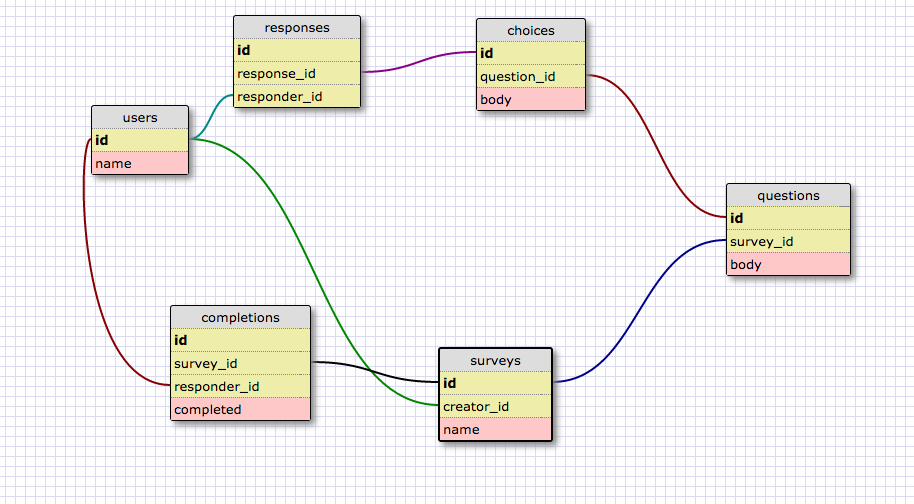
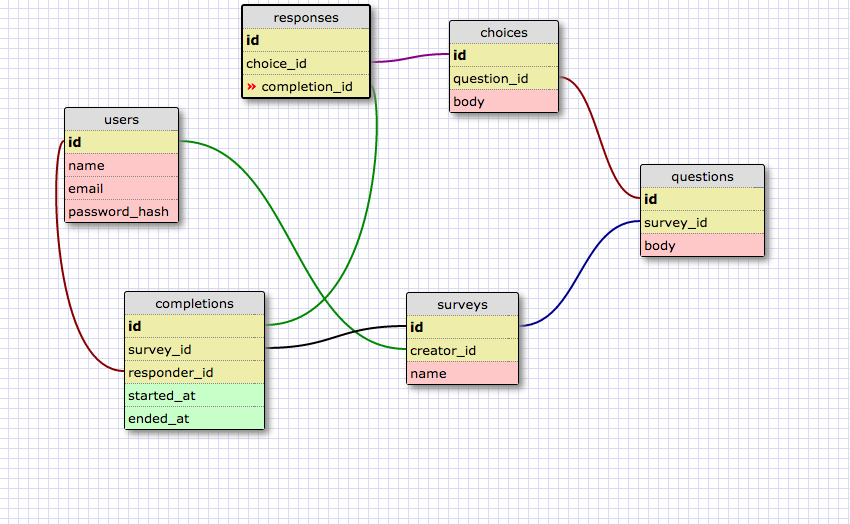
further along

diff --git a/public/js/application.js b/public/js/application.js
@@ -1,10 +1,23 @@
 $(document).ready(function () {
 
+  $("#add_question").click(function() {
+    $("#questionForm").append($("#questionTmpl").clone());
+  });
+
   // send an HTTP DELETE request for the sign-out link
   $('a#sign-out').on("click", function (e) {
     e.preventDefault();
     var request = $.ajax({ url: $(this).attr('href'), type: 'delete' });
     request.done(function () { window.location = "/"; });
   });
+
+  $('#add_question').click(function(event) {
+    event.preventDefault();
+    var request = $.ajax({ url: '/questions', type: 'get'});
+    request.done(function(response) {
+      console.log(response)
+      $("#submit_form").before(response);
+    });
+  })
 
 });

diff --git a/db/seeds.rb b/db/seeds.rb
@@ -6,16 +6,4 @@ User.create :name => 'Dev Bootcamp Student', :email => 'me@example.com', :passwo
   User.create :name => Faker::Name.name, :email => Faker::Internet.email, :password => 'password'
 end
 
-# create a few technical skills
-computer_skills = %w(Ruby Sinatra Rails JavaScript jQuery HTML CSS)
-computer_skills.each do |skill|
-  Skill.create :name => skill, :context => 'technical'
-end
-
-# create a few creative skills
-design_skills = %w(Photoshop Illustrator Responsive-Design)
-design_skills.each do |skill|
-  Skill.create :name => skill, :context => 'creative'
-end
-
 # TODO: create associations between users and skills

diff --git a/app/controllers/index.rb b/app/controllers/index.rb
@@ -1,8 +1,28 @@
 get '/' do
   # render home page
-  @users = User.all
+  @surveys = Survey.all
 
   erb :index
+end
+
+#----------- SURVEYS ------------
+
+# get '/surveys' do
+
+
+# end
+
+get '/surveys/new' do
+  erb :'surveys/new'
+end
+
+post '/surveys' do
+  @output = params[:question]
+end
+
+get '/questions' do
+  erb :'/surveys/_question', layout: false if request.xhr?
+
 end
 
 #----------- SESSIONS -----------

diff --git a/app/models/user.rb b/app/models/user.rb
@@ -1,5 +1,8 @@
 class User < ActiveRecord::Base
   attr_reader :entered_password
+  has_many  :surveys, foreign_key: "creator_id"
+  has_many  :completions, foreign_key: "responder_id"
+  has_many  :responses, through: :completions
 
   validates :name, :length => { :minimum => 3, :message => "must be at least 3 characters, fool!" }
   validates :entered_password, :length => { :minimum => 6 }

diff --git a/db/migrate/20141128110354_create_completions.rb b/db/migrate/20141128110354_create_completions.rb
@@ -1,0 +1,12 @@
+class CreateCompletions < ActiveRecord::Migration
+  def change
+    create_table :completions do |t|
+      t.integer :survey_id
+      t.integer :responder_id
+      t.datetime :started_at
+      t.datetime :ended_at
+
+      t.timestamps
+    end
+  end
+end

diff --git a/db/migrate/20141128110403_create_responses.rb b/db/migrate/20141128110403_create_responses.rb
@@ -1,0 +1,10 @@
+class CreateResponses < ActiveRecord::Migration
+  def change
+    create_table :responses do |t|
+      t.integer   :choice_id
+      t.integer   :completion_id
+
+      t.timestamps
+    end
+  end
+end

diff --git a/db/migrate/20141128110407_create_surveys.rb b/db/migrate/20141128110407_create_surveys.rb
@@ -1,0 +1,10 @@
+class CreateSurveys < ActiveRecord::Migration
+  def change
+    create_table  :surveys do |t|
+      t.integer   :creator_id
+      t.string    :name
+
+      t.timestamps
+    end
+  end
+end

diff --git a/db/migrate/20141128110358_create_questions.rb b/db/migrate/20141128110358_create_questions.rb
@@ -1,0 +1,10 @@
+class CreateQuestions < ActiveRecord::Migration
+  def change
+    create_table  :questions do |t|
+      t.integer :survey_id
+      t.text    :body
+
+      t.timestamps
+    end
+  end
+end

diff --git a/db/migrate/20141128110348_create_choices.rb b/db/migrate/20141128110348_create_choices.rb
@@ -1,0 +1,11 @@
+class CreateChoices < ActiveRecord::Migration
+  def change
+    create_table :choices do |t|
+      t.integer :question_id
+      t.text    :body
+
+
+      t.timestamps
+    end
+  end
+end

diff --git a/app/models/completion.rb b/app/models/completion.rb
@@ -1,0 +1,5 @@
+class Completion < ActiveRecord::Base
+  belongs_to  :responder, class_name: "User"
+  belongs_to  :survey
+  has_many    :responses
+end

diff --git a/app/models/survey.rb b/app/models/survey.rb
@@ -1,0 +1,5 @@
+class Survey < ActiveRecord::Base
+  has_many  :questions
+  has_many  :completions
+  belongs_to  :creator, class_name: "User"
+end

diff --git a/config/environment.rb b/config/environment.rb
@@ -15,6 +15,7 @@ require 'pg'
 require 'bcrypt'
 require 'active_record'
 require 'logger'
+require 'pry'
 
 require 'sinatra'
 
